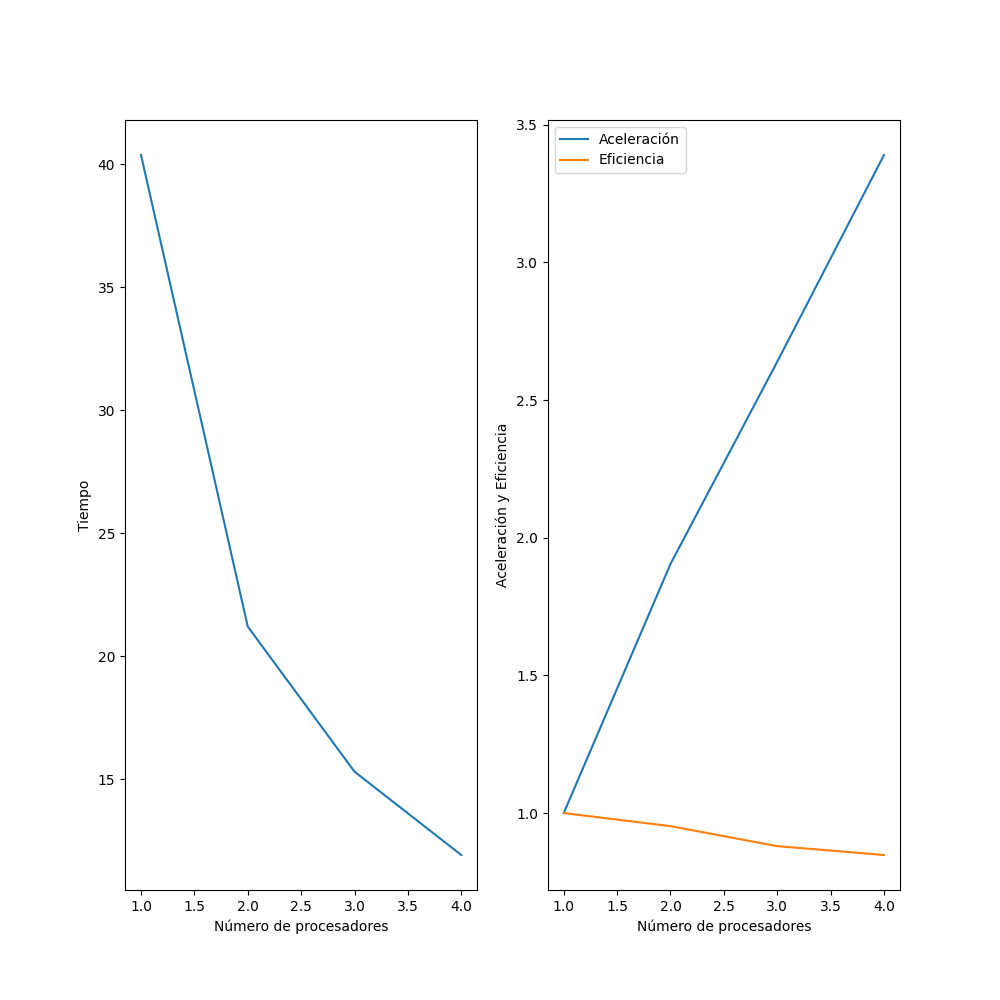
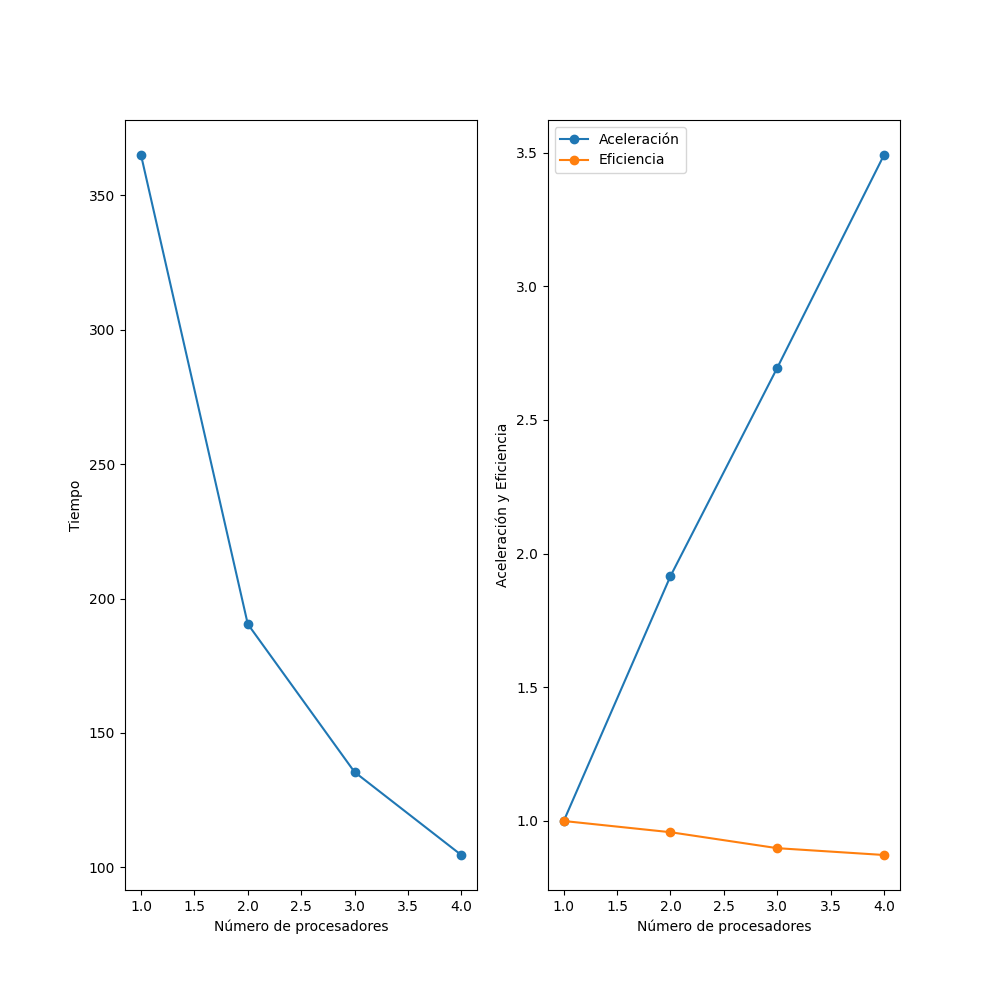
Parallelizations are adjusted to work with more data

diff --git a/index.py b/index.py
@@ -301,21 +301,54 @@ def main():
         dotplot_mpi = parallel_mpi_dotplot(Secuencia1, Secuencia2)
         if rank == 0:
             elapsed_time = time.time() - start_time
-            results_print_mpi = [f"Tiempo de ejecución mpi con {args.num_processes} hilos: {elapsed_time}"]
+            results_print_mpi = [f"Tiempo de ejecución mpi con {args.num_processes} procesos: {elapsed_time}"]
+
+            # Calcular aceleraciones y eficiencias
+            with open(args.results_file, 'r') as f:
+                previous_times = [float(line.split()[-1]) for line in f if 'Tiempo de ejecución mpi' in line]
+            
+            if not previous_times:
+                # Para 1 proceso, aceleración y eficiencia deben ser 1
+                accelerations = [1.0]
+                efficiencies = [1.0]
+            else:
+                base_time = previous_times[0]
+                accelerations = [base_time / t for t in previous_times + [elapsed_time]]
+                efficiencies = [accelerations[i] / (i + 1) for i in range(len(accelerations))]
+
+            results_print_mpi.append(f"Aceleración con {args.num_processes} procesos: {accelerations[-1]}")
+            results_print_mpi.append(f"Eficiencia con {args.num_processes} procesos: {efficiencies[-1]}")
+
             save_results_to_file(results_print_mpi, file_name=args.results_file)
             draw_dotplot(dotplot_mpi[:10000, :10000], fig_name=f'images/images_mpi/dotplot/dotplot_mpi_{args.num_processes}_processes.png')
-            path_image = 'images/images_filter/dotplot_filter_mpi.png'  
-            apply_filter(dotplotMultiprocessing[:10000, :10000], path_image)
+            path_image = 'images/images_filter/dotplot_filter_mpi.png'
+            apply_filter(dotplot_mpi[:10000, :10000], path_image)
 
     if args.pycuda:
         start_time = time.time()
         dotplot_pycuda = parallel_pycuda_dotplot(Secuencia1, Secuencia2)
         elapsed_time = time.time() - start_time
         results_print_pycuda = [f"Tiempo de ejecución PyCUDA: {elapsed_time}"]
-        save_results_to_file(results_print_pycuda, file_name="results/cuda/results_pycuda.txt")
-        draw_dotplot(dotplot_pycuda[:10000, :10000], fig_name=f'images/images_pycuda/dotplot/dotplot_pycuda_{seq_length}.png')
-        path_image = 'images/images_filter/dotplot_filter_cuda.png'  
-        apply_filter(dotplotMultiprocessing[:10000, :10000], path_image)
+        
+        # Calcular aceleraciones y eficiencias
+        results_file = "results/cuda/results_pycuda.txt"
+        with open(results_file, 'r') as f:
+            previous_times = [float(line.split()[-1]) for line in f if 'Tiempo de ejecución PyCUDA' in line]
+
+        if not previous_times:
+            previous_times = [elapsed_time]  # Add the initial elapsed time if the list is empty
+
+        base_time = previous_times[0]
+        accelerations = [base_time / t for t in previous_times + [elapsed_time]]
+        efficiencies = [accelerations[i] / (i + 1) for i in range(len(accelerations))]
+
+        results_print_pycuda.append(f"Aceleración con {args.seq_length} longitud de secuencia: {accelerations[-1]}")
+        results_print_pycuda.append(f"Eficiencia con {args.seq_length} longitud de secuencia: {efficiencies[-1]}")
+
+        save_results_to_file(results_print_pycuda, file_name=results_file)
+        draw_dotplot(dotplot_pycuda[:10000, :10000], fig_name=f'images/images_pycuda/dotplot/dotplot_pycuda_{args.seq_length}.png')
+        path_image = 'images/images_filter/dotplot_filter_cuda.png'
+        apply_filter(dotplot_pycuda[:10000, :10000], path_image)
 
 if __name__ == "__main__":
     main()
